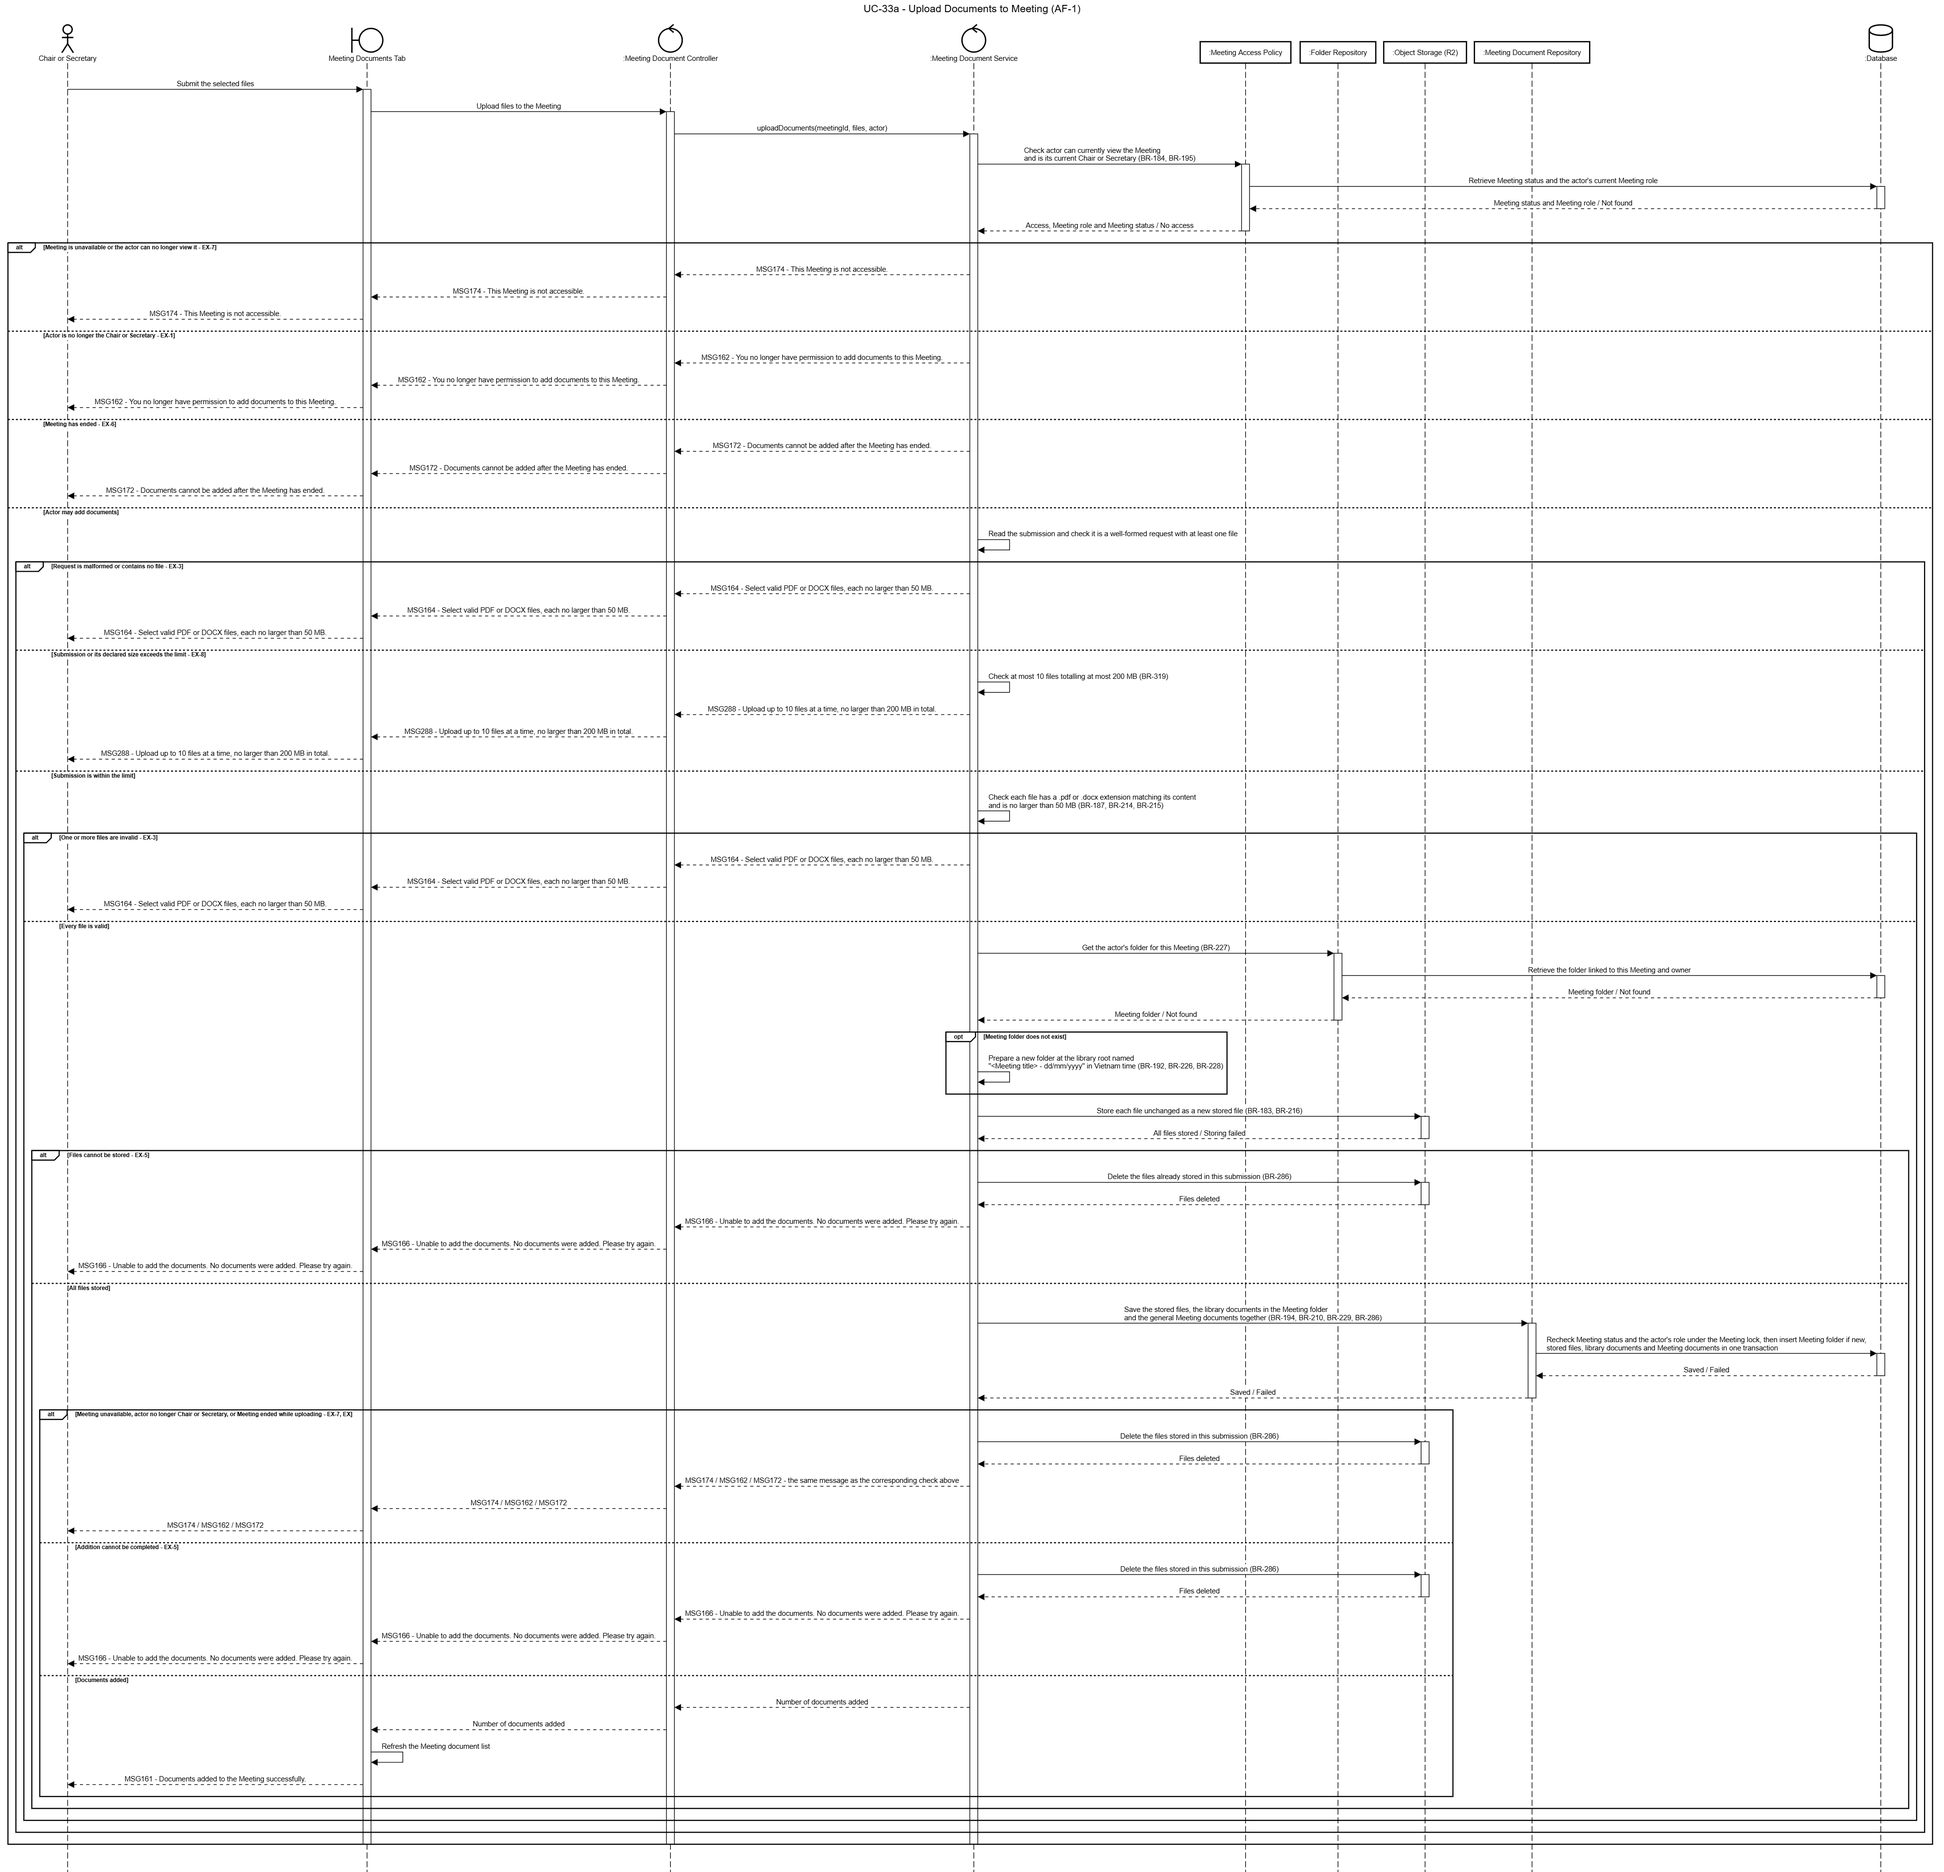
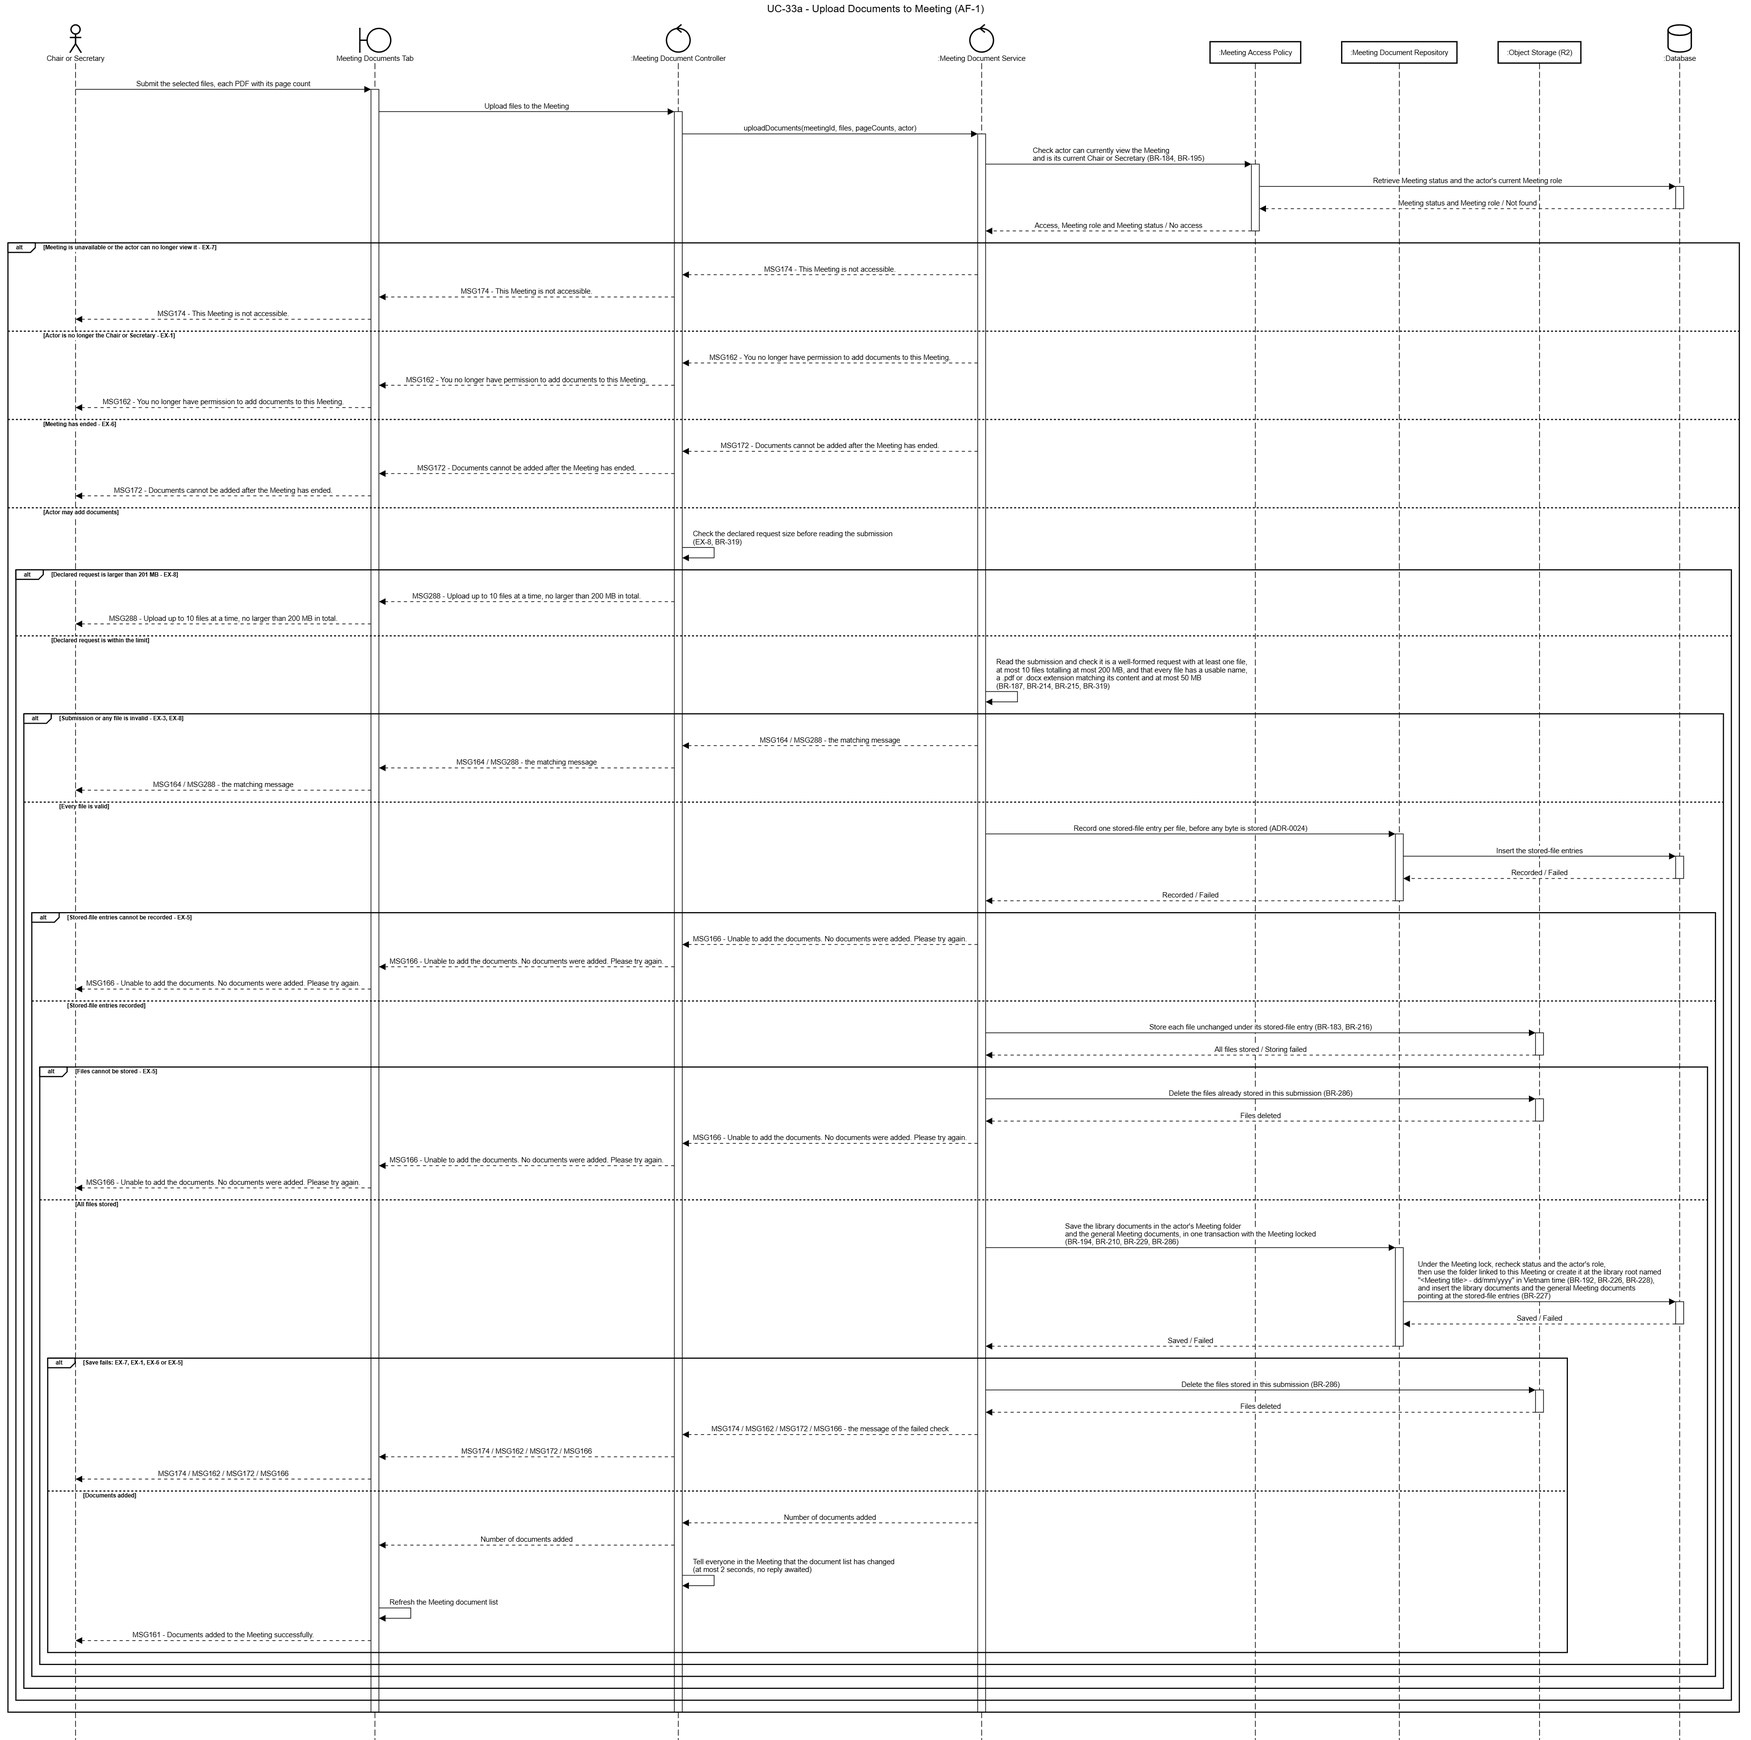
[Docs]: SCRUM-107 – sequence UC-33a viết lại theo code (kiểm quyền và trạng thái trước, chặn theo kích thước khai báo, ghi dòng tệp lưu trữ trước khi đẩy byte, một transaction có khoá cuộc họp, báo danh sách tài liệu đã đổi) và class diagram FE-07 thêm lớp DocumentFileRules cùng pageCounts, bỏ fromR

diff --git a/docs/07-classdiagram/README.md b/docs/07-classdiagram/README.md
@@ -173,6 +173,27 @@ trong kho đối tượng, chưa có class tương ứng (**PROPOSED**). `Meetin
 không vẽ thành class. `AuditLogRepository` phục vụ BR-318. Validator 0 lỗi; đã render và xem ảnh. PNG xuất bằng draw.io
 desktop, nhúng model ở chunk `zTXt`; chưa mở lại PNG bằng draw.io để kiểm tra roundtrip.
 
+## 6c. FE-07 — đối chiếu as-built · 27/10/2026
+
+Đợt BA Final Review của SCRUM-107 (UC-33a) và SCRUM-21 (UC-32a, UC-32c): đọc code đã merge rồi sửa **cục bộ** source
+FE-07 cho khớp, giữ nguyên ID, bố cục và các quan hệ khác. Ảnh `feature-07-document-management-class-diagram.drawio.png`
+đã xuất lại từ đúng source này (draw.io desktop, `--scale 2`, 4365×3279, không nhúng diagram) và đã xem lại ảnh.
+
+- `MeetingDocumentsTab`: `switchGrouping(byItem | general)` — nhóm Biểu quyết chưa có (chờ UC-74/SCRUM-96);
+  `uploadDocuments(meetingId, files[], pageCounts[])`.
+- `MeetingDocumentController` / `MeetingDocumentService`: bỏ `fromRoom` (máy chủ trả `currentAgendaItemId`, trình duyệt tự
+  đưa mục đang bàn lên đầu); `uploadDocuments(..., files, pageCounts, actor)`; `groupDocuments(documents, agenda)` — bỏ
+  tham số `votes`.
+- Thêm lớp `<<utility>> DocumentFileRules` (`validateFiles`, `detectContentType`, `uploadFolderName`, giới hạn 10 tệp /
+  200 MB mỗi lần, 50 MB mỗi tệp — BR-319, BR-187), vẽ cạnh phụ thuộc từ controller và service. Đây là lớp thật trong
+  `TrustCabinet.Domain/Documents`, không phải lớp đề xuất.
+- `MeetingDocumentRepository`: `addStoredFiles`, `findUploadFolder`, `addFolder`, `addUpload` thay cho `addUploads(...)`,
+  đúng thứ tự "ghi dòng tệp lưu trữ → đẩy byte → transaction khoá cuộc họp" của ADR-0024 §4.
+- Xoá lớp `FolderRepository` (code dùng chung `MeetingDocumentRepository` cho thư mục) và hai cạnh nối tới nó.
+
+Phần **chưa** khớp code và vẫn giữ nguyên vì thuộc UC khác: `Comment`, `DocumentVersion`, `DocumentShare` và các thao tác
+bình luận (UC-35/SCRUM-23), gắn/bỏ gắn mục nghị sự (UC-33b–33d/SCRUM-58).
+
 ## 7. Rà soát hiện trạng · 14/10/2026
 
 Đã đọc 7 source DCD, 44 sequence `.txt` theo feature, các README tương ứng, UC/BR/Entity Descriptions
